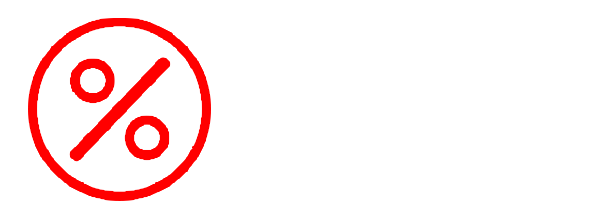
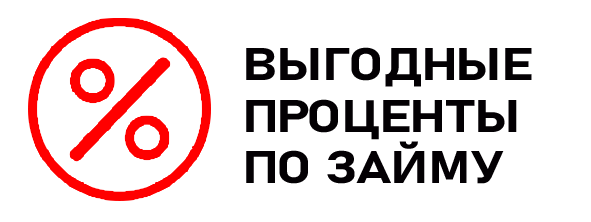
обновление мини фото и заголовка

Changed region(s): [[0.3959, 0.2162, 0.9137, 0.4054], [0.3959, 0.4324, 0.8832, 0.6486], [0.3959, 0.6216, 0.8528, 0.8378]]

diff --git a/index.html b/index.html
@@ -16,7 +16,7 @@
 
         body {
             font-family: 'Inter', sans-serif;
-            background: linear-gradient(145deg, #cfdde6 0%, #bccad6 100%);
+            background: linear-gradient(150deg, #cfdde6 0%, #bccad6 100%);
             color: #1e2a3a;
             line-height: 1.5;
             scroll-behavior: smooth;
@@ -448,6 +448,10 @@
             font-weight: 600;
             color: #1e2a3a;
             margin-bottom: 12px;
+            display: flex;
+            align-items: center;
+            justify-content: center;
+            gap: 8px;
         }
 
         .rates-grid {
@@ -518,12 +522,12 @@
         }
 
         .hero-title {
-            font-size: 1.8rem;
-            font-weight: 600;
-            color: #ffffff;
-            line-height: 1.3;
-            margin: 0 0 20px 0;
-            text-shadow: 0 2px 4px rgba(0,0,0,0.2);
+    font-size: 1.8rem;
+    font-weight: 700;
+    color: #1e2a3a;
+    line-height: 1.3;
+    margin: 0 0 20px 0;
+    text-shadow: 0 1px 2px rgba(255,255,255,0.5);
         }
 
         .photos-grid {
@@ -572,36 +576,6 @@
             .hero-description-text { max-width: 100%; padding: 16px; }
             .hero-title { font-size: 1.5rem; }
             .rates-grid { grid-template-columns: repeat(2, 1fr); }
-        }
-
-        /* Стили для полей ввода в калькуляторе */
-        .param-input {
-            background: white;
-            border: 1px solid #e2e8f0;
-            border-radius: 20px;
-            padding: 12px 16px;
-            font-size: 0.95rem;
-            color: #1e2a3a;
-            width: 100%;
-            transition: all 0.2s;
-            font-family: 'Inter', sans-serif;
-            font-weight: 500;
-        }
-
-        .param-input:focus {
-            outline: none;
-            border-color: #D4AF37;
-            transform: translateY(-1px);
-        }
-
-        .param-input:hover {
-            border-color: #D4AF37;
-        }
-
-        .param-unit {
-            font-size: 0.75rem;
-            color: #5c6f87;
-            margin-left: 8px;
         }
 
         .calculator-full-width {
@@ -691,10 +665,29 @@
             font-weight: 500;
         }
 
-        .weight-input-wrapper {
+        .param-value {
+            background: white;
+            border: 1px solid #e2e8f0;
+            border-radius: 20px;
+            padding: 12px 16px;
             display: flex;
+            justify-content: space-between;
             align-items: center;
-            gap: 8px;
+            cursor: pointer;
+            font-size: 0.95rem;
+            color: #1e2a3a;
+            transition: all 0.2s;
+        }
+
+        .param-value i {
+            font-size: 0.8rem;
+            color: #D4AF37;
+            transition: transform 0.2s;
+        }
+
+        .param-value:hover {
+            border-color: #D4AF37;
+            transform: translateY(-1px);
         }
 
         .purities-grid-sunlight {
@@ -835,7 +828,6 @@
             .params-row { flex-direction: column; gap: 12px; }
             .purities-grid-sunlight { gap: 8px; grid-template-columns: repeat(3, 1fr); }
             .result-value { font-size: 1.4rem; }
-            .param-input { padding: 10px 14px; }
         }
 
         .container {
@@ -1426,6 +1418,7 @@
                 justify-content: space-between;
                 margin-bottom: 0;
             }
+            /* Скрываем правую часть на мобильных - остаётся только логотип и бургер */
             .navbar-contacts {
                 display: none !important;
             }
@@ -1582,14 +1575,8 @@
                     <div class="calc-left">
                         <div class="calc-switch"><div class="calc-switch-btn active" data-mode="loan">Займ</div><div class="calc-switch-btn" data-mode="buyout">Выкуп</div></div>
                         <div class="params-row">
-                            <div class="param-item">
-                                <label>Вес изделия (г)</label>
-                                <input type="number" id="weightInput" value="1" step="0.1" min="0.5" max="50" class="param-input">
-                            </div>
-                            <div class="param-item" id="daysParamItem">
-                                <label>Срок займа (дней)</label>
-                                <input type="number" id="daysInput" value="30" step="1" min="7" max="365" class="param-input">
-                            </div>
+                            <div class="param-item"><label>Вес изделия</label><div class="param-value" id="weightSelector"><span id="weightDisplay">1 г</span><i class="fas fa-chevron-down"></i></div></div>
+                            <div class="param-item" id="daysParamItem"><label>Срок займа</label><div class="param-value" id="daysSelector"><span id="daysDisplay">30 дней</span><i class="fas fa-chevron-down"></i></div></div>
                         </div>
                         <div class="purities-grid-sunlight">
                             <div class="purity-card-sunlight" data-purity="375" data-price="3250" data-buyout="3650"><i class="fas fa-coins"></i><span class="purity-value">375</span><span class="purity-price">3 250 ₽</span></div>
@@ -1799,7 +1786,7 @@
         } catch (error) { document.getElementById('updateDate').innerHTML = 'Не удалось загрузить'; }
     }
 
-    // Калькулятор с полями ввода
+    // Калькулятор
     let currentMode = 'loan';
     let currentPurity = 585;
     let currentPrice = 5070;
@@ -1808,24 +1795,9 @@
     let currentDays = 30;
     const DAILY_RATE = 0.00293;
 
-    // Элементы полей ввода
-    const weightInput = document.getElementById('weightInput');
-    const daysInput = document.getElementById('daysInput');
-
     function updateCalculator() {
-        // Получаем значения из полей ввода
-        currentWeight = parseFloat(weightInput.value);
-        currentDays = parseInt(daysInput.value);
-        
-        // Проверка на корректность
-        if (isNaN(currentWeight) || currentWeight < 0.5) currentWeight = 0.5;
-        if (isNaN(currentDays) || currentDays < 7) currentDays = 7;
-        if (currentWeight > 50) currentWeight = 50;
-        if (currentDays > 365) currentDays = 365;
-        
         let totalAmount, resultLabelText;
         const tariffRow = document.getElementById('tariffRow'), dailyRateRow = document.getElementById('dailyRateRow'), interestRow = document.getElementById('interestRow'), daysParamItem = document.getElementById('daysParamItem'), resultSide = document.getElementById('resultSide');
-        
         if (currentMode === 'loan') {
             totalAmount = currentPrice * currentWeight;
             resultLabelText = '💰 Выдадим на руки (займ)';
@@ -1849,13 +1821,12 @@
             if (resultSide) resultSide.classList.add('buyout-mode');
         }
         const amountSpan = document.getElementById('loanAmount');
-        amountSpan.innerHTML = totalAmount.toLocaleString('ru-RU') + ' ₽';
+        const newValue = totalAmount;
+        amountSpan.innerHTML = newValue.toLocaleString('ru-RU') + ' ₽';
         document.getElementById('resultLabel').innerHTML = resultLabelText;
+        document.getElementById('weightDisplay').innerHTML = currentWeight + ' г';
+        document.getElementById('daysDisplay').innerHTML = currentDays + ' дней';
     }
-
-    // Слушатели событий для полей ввода
-    weightInput.addEventListener('input', updateCalculator);
-    daysInput.addEventListener('input', updateCalculator);
 
     document.querySelectorAll('.calc-switch-btn').forEach(btn => {
         btn.addEventListener('click', () => {
@@ -1890,6 +1861,22 @@
         });
     });
 
+    document.getElementById('weightSelector').addEventListener('click', () => {
+        let newWeight = prompt('Введите вес в граммах (от 0.5 до 50)', currentWeight);
+        if (newWeight && !isNaN(newWeight) && newWeight > 0 && newWeight <= 50) {
+            currentWeight = parseFloat(newWeight);
+            updateCalculator();
+        }
+    });
+
+    document.getElementById('daysSelector').addEventListener('click', () => {
+        let newDays = prompt('Введите срок займа в днях (от 7 до 365)', currentDays);
+        if (newDays && !isNaN(newDays) && newDays >= 7 && newDays <= 365) {
+            currentDays = parseInt(newDays);
+            if (currentMode === 'loan') updateCalculator();
+        }
+    });
+
     document.getElementById('askQuestionBtn').addEventListener('click', () => {
         window.open('https://t.me/Lolozik201191', '_blank');
     });
@@ -1903,17 +1890,18 @@
     let currentIndex = 0;
     let cardWidth = 0;
     let visibleCards = 4;
-    let totalCards = 5;
+    let totalCards = 5; // 5 тарифов
     let isTransitioning = false;
     let cloneCards = [];
 
+    // Функция для обновления размеров
     function updateCardWidth() {
         const container = document.querySelector('.tariffs-slider-container');
         if (!container) return;
         const containerWidth = container.clientWidth;
         const firstCard = document.querySelector('.tariff-card');
         if (firstCard) {
-            cardWidth = firstCard.offsetWidth + 24;
+            cardWidth = firstCard.offsetWidth + 24; // + gap
         }
         if (cardWidth > 0) {
             visibleCards = Math.floor(containerWidth / cardWidth);
@@ -1921,16 +1909,26 @@
         }
     }
 
+    // Создаём клоны для бесконечной прокрутки
     function setupInfiniteCarousel() {
         const originalCards = document.querySelectorAll('.tariff-card');
         totalCards = originalCards.length;
+        
+        // Очищаем трек
         track.innerHTML = '';
+        
+        // Добавляем клоны: [последний, ...оригиналы..., первый]
         const lastClone = originalCards[totalCards - 1].cloneNode(true);
         const firstClone = originalCards[0].cloneNode(true);
+        
         track.appendChild(lastClone);
         originalCards.forEach(card => track.appendChild(card.cloneNode(true)));
         track.appendChild(firstClone);
+        
+        // Сохраняем все карточки в карусели
         cloneCards = document.querySelectorAll('.tariff-card');
+        
+        // Устанавливаем начальную позицию (на первый оригинальный элемент)
         currentIndex = 1;
         updateSliderPosition(false);
         updateDotsInfinite();
@@ -1941,18 +1939,22 @@
         const offset = -currentIndex * cardWidth;
         track.style.transition = animate ? 'transform 0.5s cubic-bezier(0.25, 0.46, 0.45, 0.94)' : 'none';
         track.style.transform = `translateX(${offset}px)`;
+        
         if (!animate) {
+            // Force reflow
             track.offsetHeight;
         }
     }
 
     function handleTransitionEnd() {
         isTransitioning = false;
+        // Если дошли до клона последнего (индекс totalCards)
         if (currentIndex >= totalCards + 1) {
             currentIndex = 1;
             updateSliderPosition(false);
             updateDotsInfinite();
         }
+        // Если дошли до клона первого (индекс 0)
         if (currentIndex <= 0) {
             currentIndex = totalCards;
             updateSliderPosition(false);
@@ -1994,6 +1996,7 @@
         updateSliderPosition(true);
     }
 
+    // Инициализация карусели
     function initInfiniteCarousel() {
         updateCardWidth();
         setupInfiniteCarousel();